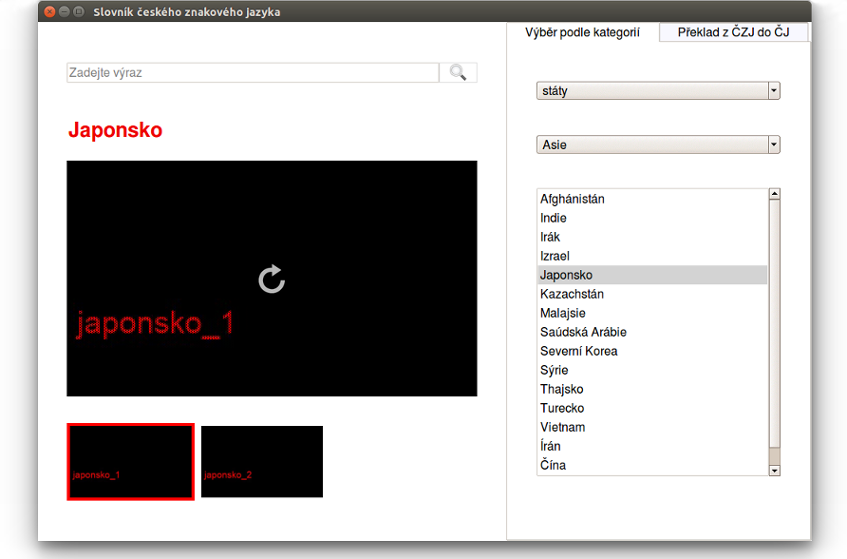
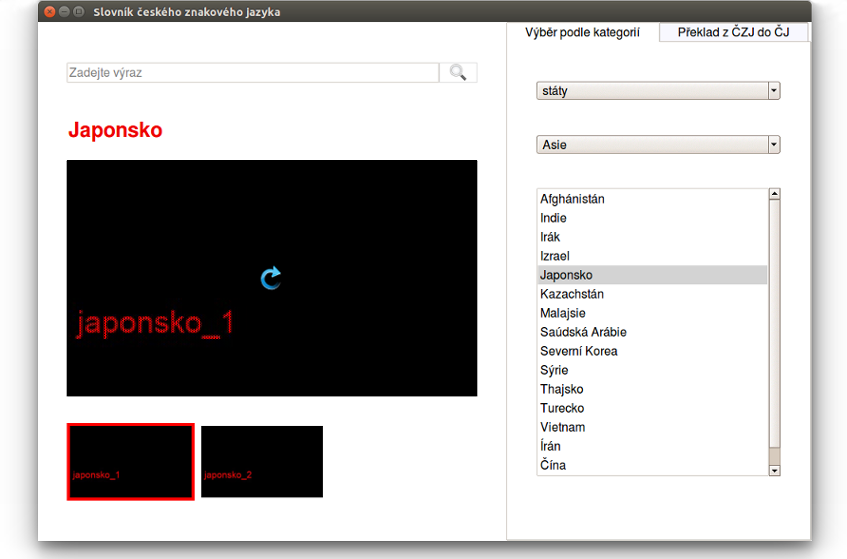
New replay arrow.

Changed region(s): [[0.0921, 0.5474, 0.2763, 0.6082], [0.307, 0.4562, 0.3377, 0.5474]]

diff --git a/dictionary/video_frame.py b/dictionary/video_frame.py
@@ -43,7 +43,7 @@ class VideoFrm(Frame):
         
         if imgdir:
             self.replayArrowPath = os.path.join(imgdir, 'replay_arrow.png')
-            self.arrowSize = 40
+            self.arrowSize = 35
         
         # create a canvas for displaying the video
         self.width = width

diff --git a/LICENSE.md b/LICENSE.md
@@ -3,12 +3,12 @@ Credit
 In the Czech Sign Language Dictionary application the following icons 
 (located at ./dictionary/images directory) are used:
 
-* hint\_icon.png is an [icon](findicons.com/icon/455110/light\_bulb\_on) by [Janik Baumgartner](kinaj.com) licensed under [CC BY](creativecommons.org/licenses/by/4.0/)
+* hint\_icon.png is an [icon](findicons.com/icon/455110/light_bulb_on) by [Janik Baumgartner](kinaj.com) licensed under [CC BY](creativecommons.org/licenses/by/4.0/)
 
 * add\_icon.png, close\_icon.png, del\_draw.png, del\_icon.png, search\_icon.png, 
 submit\_icon.png are icons from the [Koloria icons set](www.graphicrating.com/2012/06/14/koloria-free-icons-set/)
 
-* replay\_arrow.png is an [icon](findicons.com/icon/454622/arrow\_circle\_right) by [The Working Group](blog.twg.ca) licensed under [CC BY-SA](creativecommons.org/licenses/by-sa/4.0/)
+* replay\_arrow.png is an [icon](https://findicons.com/icon/261425/arrow_clockwise) by [Momenticons](https://momentumdesignlab.com/) licensed under [CC BY](creativecommons.org/licenses/by/4.0/)
 
 
 

diff --git a/README.md b/README.md
@@ -20,8 +20,8 @@ Note: As I don't have permission to share publically the videos with sign langua
 
 Linux:
 
-The application can be run from source:
-```python dictionary/main.py
+The application can be run from `dictionary` directory by:
+```python main.py
 ```
 after installing the dependencies:
 
